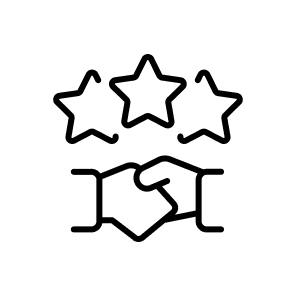
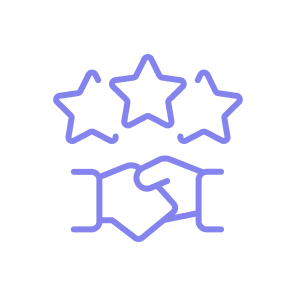
added dark mode color

Changed region(s): [[0.1824, 0.1824, 0.8209, 0.4865], [0.2432, 0.5169, 0.7601, 0.8209]]

diff --git a/src/Components/Projects/Projects.jsx b/src/Components/Projects/Projects.jsx
@@ -67,7 +67,7 @@ const Projects = () => {
 
             {/* Section content */}
             <div className="w-full mt-9">
-                <h1 className="text-3xl sm:text-4xl lg:text-5xl text-accent">
+                <h1 className="text-3xl sm:text-4xl lg:text-5xl text-primary">
                     Our Project
                 </h1>
                 <p className="text-base text-[#484848] mt-6 leading-relaxed">
@@ -112,7 +112,7 @@ const Projects = () => {
                                 exit={{ opacity: 0, y: -20 }}
                                 transition={{ duration: 0.5 }}
                             >
-                                <h1 className="text-3xl sm:text-4xl lg:text-5xl text-accent">
+                                <h1 className="text-3xl sm:text-4xl lg:text-5xl text-primary">
                                     {currentProject.title}
                                 </h1>
                                 <p className="mt-6 text-base text-[#484848] leading-relaxed">
@@ -126,24 +126,24 @@ const Projects = () => {
                             {/* ⬅ Left Button */}
                             <button
                                 onClick={handlePrev}
-                                className="flex items-center justify-center w-12 h-12 rounded-full bg-white shadow-md hover:bg-secondary hover:border-accent hover:shadow-lg transition-all duration-300 group"
+                                className="group flex items-center justify-center w-12 h-12 rounded-full bg-white border transition-all duration-300 hover:bg-[#8584EF20] hover:border-accent hover:shadow-lg"
                             >
                                 <img
                                     src={left}
                                     alt="left_arrow"
-                                    className="w-7 h-7 group-hover:invert"
+                                    className="w-7 h-7"
                                 />
                             </button>
 
                             {/* ➡ Right Button */}
                             <button
                                 onClick={handleNext}
-                                className="flex items-center justify-center w-12 h-12 rounded-full bg-white shadow-md hover:bg-secondary hover:border-accent hover:shadow-lg transition-all duration-300 group"
+                                className="group flex items-center justify-center w-12 h-12 rounded-full bg-white border transition-all duration-300 hover:bg-[#8584EF20] hover:border-accent hover:shadow-lg"
                             >
                                 <img
                                     src={right}
                                     alt="right_arrow"
-                                    className="w-7 h-7 group-hover:invert"
+                                    className="w-7 h-7"
                                 />
                             </button>
                         </div>

diff --git a/src/Components/Footer/Footer.jsx b/src/Components/Footer/Footer.jsx
@@ -1,5 +1,5 @@
 import React from 'react';
-import logo from '../../assets/footer/footer_icon.png';
+import logo from '../../assets/footer/footer_logo.png';
 import fb from '../../assets/footer/facebook.png';
 import insta from '../../assets/footer/instragram.png';
 import linkedin from '../../assets/footer/linkedin.png';
@@ -17,7 +17,7 @@ const Footer = () => {
           <img className="w-24 sm:w-28 md:w-32 h-auto" src={logo} alt="techsabyte-icon" />
 
           {/* Navigation Links */}
-          <div className="lg:text-base text-accent grid grid-cols-2 lg:grid-cols-4 mt-8 gap-4">
+          <div className="lg:text-base text-primary grid grid-cols-2 lg:grid-cols-4 mt-8 gap-4">
             <p>About</p>
             <p>Services</p>
             <p>Projects</p>
@@ -25,7 +25,7 @@ const Footer = () => {
           </div>
 
           {/* Contact Info */}
-          <div className="grid grid-cols-1 lg:grid-cols-2 text-accent mt-8 gap-6">
+          <div className="grid grid-cols-1 lg:grid-cols-2 text-primary mt-8 gap-6">
             <div>
               <p className="text-sm text-gray-400">Email</p>
               <p className="text-base mt-2">info@techsabyte.com</p>
@@ -47,7 +47,7 @@ const Footer = () => {
 
         {/* 3rd Column */}
         <div className="flex flex-col items-center text-center mt-10 md:mt-0">
-          <h1 className="text-3xl sm:text-4xl lg:text-5xl text-accent">
+          <h1 className="text-3xl sm:text-4xl lg:text-5xl text-primary">
             Ready to start your <br /> project with us?
           </h1>
           <div className="mt-8">
@@ -55,9 +55,9 @@ const Footer = () => {
               href="https://www.whatsapp.com/?lang=en"
               target="_blank"
               rel="noopener noreferrer"
-              className="bg-[#00000010] rounded-md hover:bg-[#00000030] py-3 px-5 sm:px-6"
+              className=" rounded-[4px] hover:border hover:border-black  bg-[#8584EF20] dark:text-black py-[12px] px-[14px] sm:px-5"
             >
-              Set Meeting
+              Hire The Best Team
             </a>
           </div>
         </div>

diff --git a/src/Components/BootCamps/BootCamps.jsx b/src/Components/BootCamps/BootCamps.jsx
@@ -29,7 +29,7 @@ const BootCamps = () => {
 
             {/* Intro Text */}
             <div className="mt-9 w-full">
-                <h1 className="text-3xl sm:text-4xl lg:text-5xl text-accent">
+                <h1 className="text-3xl sm:text-4xl lg:text-5xl text-primary">
                     Our Bootcamps
                 </h1>
                 <p className="text-base text-[#484848] mt-6 leading-relaxed">
@@ -57,7 +57,7 @@ const BootCamps = () => {
 
                     {/* Content */}
                     <div className="lg:w-2/3 w-full p-6 sm:p-8 lg:p-10">
-                        <h1 className="text-3xl sm:text-4xl lg:text-5xl text-accent">
+                        <h1 className="text-3xl sm:text-4xl lg:text-5xl text-primary">
                             Acquire Knowledge, Build Skills, Achieve Excellence
                         </h1>
                         <p className="mt-6 sm:mt-8 text-base text-[#484848] leading-relaxed">
@@ -70,10 +70,11 @@ const BootCamps = () => {
                         </p>
 
                         {/* Button */}
-                        <button className="mt-8 sm:mt-10 btn flex items-center gap-2 mx-auto lg:mx-0">
+                        <button className="mt-8 sm:mt-10 btn flex items-center gap-2 mx-auto lg:mx-0 shadow-none font-normal rounded-[4px] border border-transparent hover:border-black bg-[#8584EF20] dark:text-black py-[24px] px-[24px] sm:px-5 transition-all duration-300">
                             Learn More
                             <img className="w-8 h-8" src={rightArrow} alt="right-arrow" />
                         </button>
+
 
                         {/* Cards */}
                         <div className="grid grid-cols-2 sm:grid-cols-3 md:grid-cols-6 gap-4 sm:gap-5 mt-10 sm:mt-12 justify-items-center">

diff --git a/src/Components/Service/Service.jsx b/src/Components/Service/Service.jsx
@@ -53,7 +53,7 @@ const Service = () => {
             <div className="mt-10 flex flex-col lg:flex-row gap-10 lg:gap-16">
                 {/* Left Text Section */}
                 <div className="lg:w-1/3 w-full">
-                    <h1 className="text-3xl sm:text-4xl lg:text-5xl text-accent">
+                    <h1 className="text-3xl sm:text-4xl lg:text-5xl text-primary">
                         Our Services
                     </h1>
                     <p className="text-base text-[#484848] mt-6 leading-relaxed">
@@ -67,14 +67,14 @@ const Service = () => {
                         {services.map((service, index) => (
                             <div
                                 key={index}
-                                className="py-8 px-6 border border-[#00000020] rounded-[8px] hover:shadow-md transition-all duration-300"
+                                className="py-8 px-6 border border-[#00000020] rounded-[8px] hover:shadow-md hover:shadow-primary transition-all duration-300"
                             >
                                 <img
-                                    className="mb-[18px] w-10 h-10 mx-auto sm:mx-0"
+                                    className="mb-[18px] size-20 mx-auto sm:mx-0"
                                     src={service.img}
                                     alt={service.title}
                                 />
-                                <h1 className="text-accent text-xl sm:text-2xl mb-[18px]">
+                                <h1 className="text-primary text-xl sm:text-2xl mb-[18px]">
                                     {service.title}
                                 </h1>
                                 <p className="text-secondary text-base leading-relaxed">

diff --git a/src/Components/Navbar/Navbar.jsx b/src/Components/Navbar/Navbar.jsx
@@ -1,5 +1,5 @@
 import React from 'react';
-import navIcon from "../../assets/nab/nav_icon.png";
+import navIcon from "../../assets/nab/logo.png";
 
 const Navbar = () => {
   const links = (
@@ -12,7 +12,7 @@ const Navbar = () => {
   );
 
   return (
-    <div className="navbar bg-base-100 pt-[20px] sm:pt-[30px] lg:pt-[50px] px-4 sm:px-[30px] lg:px-[50px]">
+    <div className="navbar bg-base-100 dark:bg-white pt-[20px] sm:pt-[30px] lg:pt-[50px] px-4 sm:px-[30px] lg:px-[50px]">
       {/* Navbar Start */}
       <div className="navbar-start">
         {/* Mobile Dropdown */}
@@ -50,7 +50,7 @@ const Navbar = () => {
       {/* Navbar Center (Hidden on small) */}
       <div className="navbar-center hidden md:flex">
         <img
-          className="text-[#000000] size-4 mr-[8.5px]"
+          className="text-[#8584EF] size-8 mr-[8.5px]"
           src={navIcon}
           alt="TechsaByte-Icon"
         />
@@ -60,11 +60,11 @@ const Navbar = () => {
       </div>
 
       {/* Navbar End */}
-      <div className="navbar-end">
+      <div className="navbar-end ">
         <a 
         href="https://www.whatsapp.com/?lang=en"
         target="_blank"
-        className='bg-[#00000010] rounded-[4px] border-none hover:bg-[#00000030]  py-[10px] px-[14px] sm:px-5'
+        className='rounded-[4px] hover:border hover:border-black bg-[#8584EF20] dark:text-black py-[10px] px-[14px] sm:px-5'
         >
             Set Meeting
         </a>

diff --git a/src/Components/About/About.jsx b/src/Components/About/About.jsx
@@ -23,7 +23,7 @@ const About = () => {
 
             {/* Heading and Paragraph */}
             <div className="text-center lg:text-left mt-9">
-                <h1 className="text-3xl sm:text-4xl lg:text-5xl text-[#000000]">
+                <h1 className="text-3xl sm:text-4xl lg:text-5xl text-primary">
                     Who We Are
                 </h1>
                 <p className="text-base text-[#484848] mt-6 leading-relaxed">
@@ -51,8 +51,8 @@ const About = () => {
                         className="flex flex-col items-center justify-center text-center border border-[#00000020] rounded-[8px] py-7 px-10 sm:px-16 md:px-20 h-full 
                        transition-transform duration-300 transform hover:scale-110 cursor-pointer"
                     >
-                        <img className="w-12 h-12" src={card.img} alt={card.text} />
-                        <p className="text-[#484848] text-lg sm:text-xl mt-5 whitespace-nowrap">
+                        <img className="size-20" src={card.img} alt={card.text} />
+                        <p className="text-[#484848] text-2xl sm:text-xl mt-5 whitespace-nowrap">
                             {card.text}
                         </p>
                     </div>

diff --git a/src/Components/Review/Review.jsx b/src/Components/Review/Review.jsx
@@ -64,7 +64,7 @@ const Review = () => {
     <div className="mx-4 sm:mx-6 md:mx-10 lg:mx-[50px] overflow-hidden">
       {/* Section Header */}
       <div className="text-center mt-20 md:mt-32 lg:mt-40">
-        <span className="inline-block px-4 py-2 border border-[#00000020] rounded-[5px] text-base text-accent">
+        <span className="inline-block px-4 py-2 border border-[#00000020] rounded-[5px] text-base text-black">
           Reviews
         </span>
       </div>
@@ -86,7 +86,7 @@ const Review = () => {
               className="min-w-[90%] sm:min-w-[48%] lg:min-w-[32%] bg-white rounded-xl border border-gray-200 p-6 relative shadow-sm flex flex-col justify-between h-[420px]"
             >
               {/* Quotation icon */}
-              <div className="absolute -top-5 left-6 bg-gray-300 w-10 h-10 rounded-full flex items-center justify-center z-10">
+              <div className="absolute -top-5 left-6 border border-accent bg-[#8584EF20] w-10 h-10 rounded-full flex items-center justify-center z-10">
                 <img
                   src={quotation}
                   alt="quotation mark"

diff --git a/src/Components/Question/Question.jsx b/src/Components/Question/Question.jsx
@@ -5,7 +5,7 @@ const Question = () => {
     <div className="mx-4 sm:mx-6 md:mx-10 lg:mx-[50px]">
       {/* Heading and Description */}
       <div className="flex flex-col lg:flex-row justify-between mt-28 gap-8 lg:gap-0">
-        <h1 className="text-3xl sm:text-4xl lg:text-5xl text-accent">
+        <h1 className="text-3xl sm:text-4xl lg:text-5xl text-primary">
           Do you have <br />
           any questions?
         </h1>
@@ -18,7 +18,7 @@ const Question = () => {
 
       {/* Send Message Button */}
       <div className="text-start mt-14">
-        <span className="inline-block px-4 py-2 border border-[#00000020] rounded-[5px] text-base text-accent">
+        <span className="inline-block border border-[#00000005] rounded-[5px] text-base hover:border hover:border-black bg-[#8584EF20] dark:text-black py-[10px] px-[14px] sm:px-5">
           Send a message
         </span>
       </div>

diff --git a/src/Components/Hero/Hero.jsx b/src/Components/Hero/Hero.jsx
@@ -17,7 +17,7 @@ const Hero = () => {
       {/* start a conversation */}
       <div className="flex justify-center items-center mt-8 sm:mt-10 lg:mt-12">
         <button
-          className="bg-black hover:bg-[#00000020] rounded-[5px] flex items-center text-white hover:text-black text-sm sm:text-base py-2 sm:py-[12.5px] px-4 sm:px-[20px] group"
+          className="bg-primary hover:bg-[#8584EF20] hover:border  rounded-[5px] flex items-center text-white hover:text-black text-sm sm:text-base py-2 sm:py-[12.5px] px-4 sm:px-[20px] group"
         >
           {/* White Icon by default, Black on hover */}
           <img

diff --git a/src/Pages/Home/Home.jsx b/src/Pages/Home/Home.jsx
@@ -6,7 +6,6 @@ import Projects from '../../Components/projects/projects';
 import BootCamps from '../../Components/Bootcamps/Bootcamps';
 import Review from '../../Components/Review/Review';
 import Question from '../../Components/Question/Question';
-import Footer from '../../Components/Footer/Footer';
 
 const Home = () => {
     return (
@@ -18,7 +17,7 @@ const Home = () => {
             <BootCamps></BootCamps>
             <Review></Review>
             <Question></Question>
-            <Footer></Footer>
+            
         </div>
     );
 };

diff --git a/src/MainLayout/MainLayout.jsx b/src/MainLayout/MainLayout.jsx
@@ -1,13 +1,14 @@
 import React from 'react';
 import Navbar from '../Components/Navbar/Navbar';
 import { Outlet } from 'react-router';
+import Footer from '../Components/Footer/Footer';
 
 const MainLayout = () => {
     return (
-        <div>
+        <div className='dark:bg-white'>
             <Navbar></Navbar>
             <Outlet></Outlet>
-            
+            <Footer></Footer>
         </div>
     );
 };

diff --git a/src/index.css b/src/index.css
@@ -5,7 +5,7 @@
 @plugin "daisyui/theme" {
   name: "mytheme";
   default: true; /* set as default */
-  prefersdark: false; /* set as default dark mode (prefers-color-scheme:dark) */
+  prefersdark: true; /* set as default dark mode (prefers-color-scheme:dark) */
   color-scheme: light; /* color of browser-provided UI */
 
   
